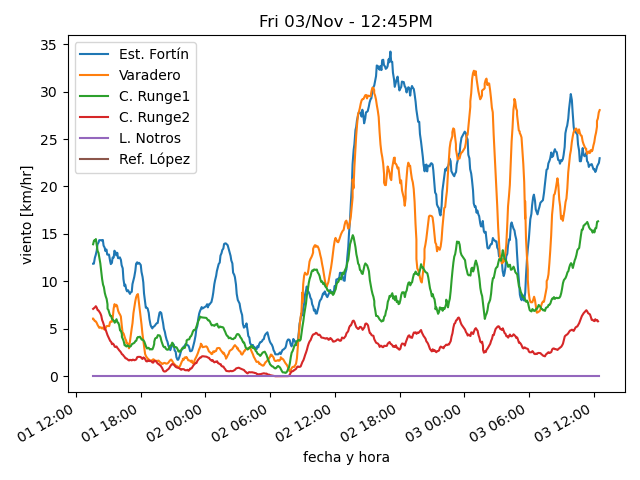
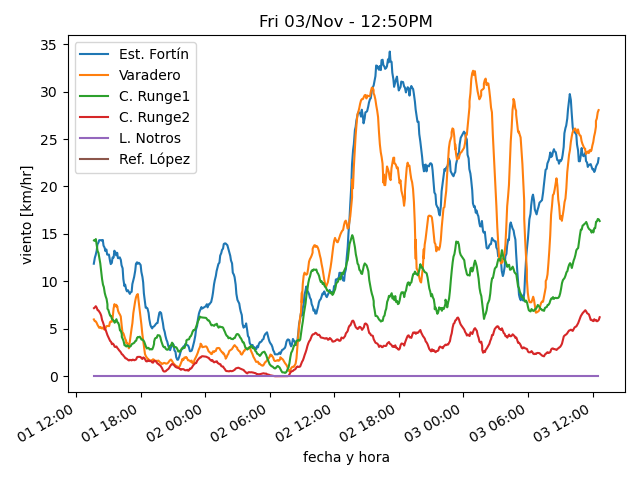
actualiza datos

diff --git a/estaciones/estacion3.html b/estaciones/estacion3.html
@@ -18,32 +18,32 @@
     </tr>
     <tr>
      <td class="stats_data">
-      12:24PM
+      12:39PM
      </td>
     </tr>
     <tr>
      <td class="stats_data">
-      10.3⁰C
+      10.7⁰C
      </td>
     </tr>
     <tr>
      <td class="stats_data">
-      3.0⁰C
+      3.1⁰C
      </td>
     </tr>
     <tr>
      <td class="stats_data">
-      60.4%
+      59.3%
      </td>
     </tr>
     <tr>
      <td class="stats_data">
-      1010.94hPa
+      1010.74hPa
      </td>
     </tr>
     <tr>
      <td class="stats_data">
-      11.3/16.4 km/hr NW
+      9.1/13.1 km/hr NW
      </td>
     </tr>
     <tr>
@@ -53,12 +53,12 @@
     </tr>
     <tr>
      <td class="stats_data">
-      10.0
+      8.0
      </td>
     </tr>
     <tr>
      <td class="stats_data">
-      896.2 W/m²
+      779.0 W/m²
      </td>
     </tr>
    </tbody>

diff --git a/estaciones/estacion4.html b/estaciones/estacion4.html
@@ -18,32 +18,32 @@
     </tr>
     <tr>
      <td class="stats_data">
-      12:24PM
+      12:39PM
      </td>
     </tr>
     <tr>
      <td class="stats_data">
-      12.5⁰C
+      12.3⁰C
      </td>
     </tr>
     <tr>
      <td class="stats_data">
-      3.2⁰C
+      2.7⁰C
      </td>
     </tr>
     <tr>
      <td class="stats_data">
-      53.0%
+      52.1%
      </td>
     </tr>
     <tr>
      <td class="stats_data">
-      1019.91hPa
+      1019.64hPa
      </td>
     </tr>
     <tr>
      <td class="stats_data">
-      3.6/5.2 km/hr SSW
+      4.7/7.6 km/hr SSW
      </td>
     </tr>
     <tr>
@@ -53,12 +53,12 @@
     </tr>
     <tr>
      <td class="stats_data">
-      8.0
+      7.0
      </td>
     </tr>
     <tr>
      <td class="stats_data">
-      880.2 W/m²
+      804.2 W/m²
      </td>
     </tr>
    </tbody>
